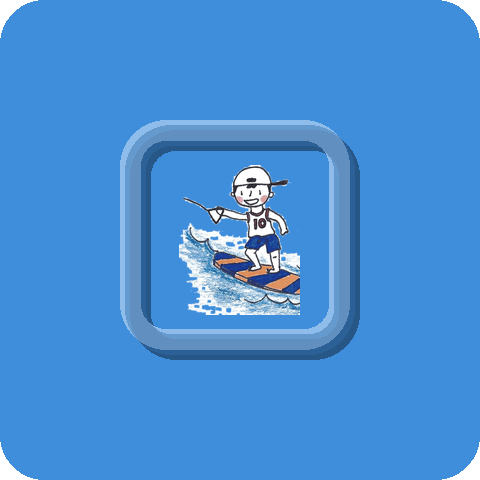
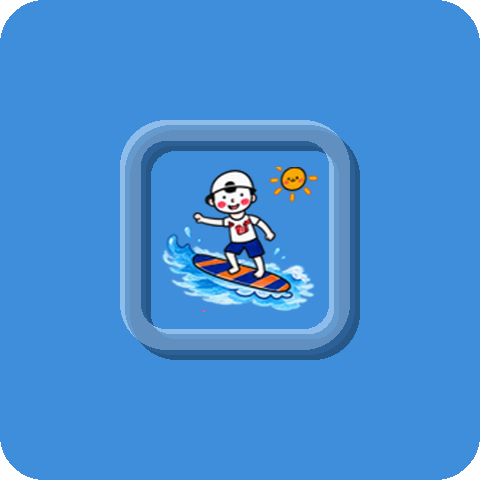
사계절 카드에 새로 받은 벡터풍 그림 적용 (여름·가을·봄)
전달받은 세 장(여름·가을·봄)을 assets/img/art-*.png로 넣고 카드에 반영.
받은 파일은 이미 알파 채널이 있어 배경 제거가 필요 없었다.

- 여름·가을: 음각 액자 안에 그림 배치
- 봄: 받은 그림이 곧 로고의 왼쪽 아래 칸('봄' 글자)이라 네모 액자를
  씌우지 않고 그대로 놓음
- 겨울: 새 그림이 없어 기존 포토북 크레용 삽화의 흰 배경을 지워서 사용

봄 카드 배경만 #17b39a → #0f8a76으로 바꿨다. 글자색이 (1,192,140)이라
봄 브랜드색 (23,179,154)과 거의 같아 그대로 두면 글자가 배경에 묻혔다.
디자인 시스템에 이미 있는 진한 청록(--color-primary-dark)을 썼다.

검증: 375px·1280px 모두 4장 로드, 이름/문구가 액자 구간(26~74%)을
침범하지 않음, 가로 스크롤·콘솔 에러 없음.

남은 차이: 겨울만 크레용 화풍이라 나머지 셋(벡터풍)과 톤이 다르다.

Changed region(s): [[0.3438, 0.3438, 0.6562, 0.6562]]

diff --git a/letter-2026-summer.html b/letter-2026-summer.html
@@ -7,7 +7,7 @@
   <meta name="description" content="여름은 다들 떠나는 계절입니다. 그 여름에 병실에 있는 사람에게 보내는 편지. 페루 마추픽추, 산정특례 30일 규칙과 연말정산 장애인 공제, 그리고 2025년에 한 일." />
   <link rel="alternate" hreflang="ko" href="https://nrhoon777.github.io/ddobom-website/letter-2026-summer.html" />
   <link rel="icon" type="image/png" href="assets/img/logo-square.png" />
-  <link rel="stylesheet" href="assets/css/style.css?v=20260811e" />
+  <link rel="stylesheet" href="assets/css/style.css?v=20260811f" />
 </head>
 <body>
   <a href="#main" class="skip-link">본문 바로가기</a>
@@ -339,6 +339,6 @@
     </div>
   </footer>
 
-  <script src="assets/js/main.js?v=20260811e"></script>
+  <script src="assets/js/main.js?v=20260811f"></script>
 </body>
 </html>

diff --git a/letters.html b/letters.html
@@ -7,7 +7,7 @@
   <meta name="description" content="계절마다 한 번, 네 번에 걸쳐 한 해를 도는 또봄의 편지. 여름·가을·겨울·봄, 또봄 로고의 네 네모와 같은 순서입니다." />
   <link rel="alternate" hreflang="ko" href="https://nrhoon777.github.io/ddobom-website/letters.html" />
   <link rel="icon" type="image/png" href="assets/img/logo-square.png" />
-  <link rel="stylesheet" href="assets/css/style.css?v=20260811e" />
+  <link rel="stylesheet" href="assets/css/style.css?v=20260811f" />
 </head>
 <body>
   <a href="#main" class="skip-link">본문 바로가기</a>
@@ -164,6 +164,6 @@
     </div>
   </footer>
 
-  <script src="assets/js/main.js?v=20260811e"></script>
+  <script src="assets/js/main.js?v=20260811f"></script>
 </body>
 </html>

diff --git a/travel-peru.html b/travel-peru.html
@@ -7,7 +7,7 @@
   <meta name="description" content="이카, 나스카, 마추픽추, 쿠스코, 우유니, 69호수. 회복기의 몸을 기준으로 고도순으로 정리한 페루 여행 안내입니다." />
   <link rel="alternate" hreflang="ko" href="https://nrhoon777.github.io/ddobom-website/travel-peru.html" />
   <link rel="icon" type="image/png" href="assets/img/logo-square.png" />
-  <link rel="stylesheet" href="assets/css/style.css?v=20260811e" />
+  <link rel="stylesheet" href="assets/css/style.css?v=20260811f" />
 </head>
 <body>
   <a href="#main" class="skip-link">본문 바로가기</a>
@@ -216,6 +216,6 @@
     </div>
   </footer>
 
-  <script src="assets/js/main.js?v=20260811e"></script>
+  <script src="assets/js/main.js?v=20260811f"></script>
 </body>
 </html>

diff --git a/story-bucketbook.html b/story-bucketbook.html
@@ -7,7 +7,7 @@
   <meta name="description" content="말기암을 이겨낸 뒤 떠난 80일간의 여행. 그 사진으로 만든 포토북을 병원에 전한 2018년 프로젝트 기록입니다." />
   <link rel="alternate" hreflang="ko" href="https://nrhoon777.github.io/ddobom-website/story-bucketbook.html" />
   <link rel="icon" type="image/png" href="assets/img/logo-square.png" />
-  <link rel="stylesheet" href="assets/css/style.css?v=20260811e" />
+  <link rel="stylesheet" href="assets/css/style.css?v=20260811f" />
 </head>
 <body>
   <a href="#main" class="skip-link">본문 바로가기</a>
@@ -238,6 +238,6 @@
     </div>
   </footer>
 
-  <script src="assets/js/main.js?v=20260811e"></script>
+  <script src="assets/js/main.js?v=20260811f"></script>
 </body>
 </html>

diff --git a/index.html b/index.html
@@ -12,7 +12,7 @@
   <link rel="alternate" hreflang="en" href="https://nrhoon777.github.io/ddobom-website/en/index.html" />
   <link rel="alternate" hreflang="x-default" href="https://nrhoon777.github.io/ddobom-website/index.html" />
   <link rel="icon" type="image/png" href="assets/img/logo-square.png" />
-  <link rel="stylesheet" href="assets/css/style.css?v=20260811e" />
+  <link rel="stylesheet" href="assets/css/style.css?v=20260811f" />
 </head>
 <body>
   <a href="#main" class="skip-link">본문 바로가기</a>
@@ -448,7 +448,7 @@
     </div>
   </footer>
 
-  <script src="assets/js/main.js?v=20260811e"></script>
+  <script src="assets/js/main.js?v=20260811f"></script>
   <script type="module" src="assets/js/news-loader.js?v=20260807f"></script>
 </body>
 </html>

diff --git a/story-cheerup.html b/story-cheerup.html
@@ -7,7 +7,7 @@
   <meta name="description" content="암 경험자와 시민이 한자리에서 이야기하고 노래하는 토크·싱 콘서트. 2023년부터 네 번 열린 기록입니다." />
   <link rel="alternate" hreflang="ko" href="https://nrhoon777.github.io/ddobom-website/story-cheerup.html" />
   <link rel="icon" type="image/png" href="assets/img/logo-square.png" />
-  <link rel="stylesheet" href="assets/css/style.css?v=20260811e" />
+  <link rel="stylesheet" href="assets/css/style.css?v=20260811f" />
 </head>
 <body>
   <a href="#main" class="skip-link">본문 바로가기</a>
@@ -167,6 +167,6 @@
     </div>
   </footer>
 
-  <script src="assets/js/main.js?v=20260811e"></script>
+  <script src="assets/js/main.js?v=20260811f"></script>
 </body>
 </html>

diff --git a/story-gift-2020.html b/story-gift-2020.html
@@ -7,7 +7,7 @@
   <meta name="description" content="코로나로 만남이 어려웠던 2020년 겨울, 투병 중인 청년에게 여행 포토북을 보낸 캠페인 기록입니다." />
   <link rel="alternate" hreflang="ko" href="https://nrhoon777.github.io/ddobom-website/story-gift-2020.html" />
   <link rel="icon" type="image/png" href="assets/img/logo-square.png" />
-  <link rel="stylesheet" href="assets/css/style.css?v=20260811e" />
+  <link rel="stylesheet" href="assets/css/style.css?v=20260811f" />
 </head>
 <body>
   <a href="#main" class="skip-link">본문 바로가기</a>
@@ -133,6 +133,6 @@
     </div>
   </footer>
 
-  <script src="assets/js/main.js?v=20260811e"></script>
+  <script src="assets/js/main.js?v=20260811f"></script>
 </body>
 </html>

diff --git a/en/story-bucketbook.html b/en/story-bucketbook.html
@@ -8,7 +8,7 @@
   <link rel="alternate" hreflang="ko" href="https://nrhoon777.github.io/ddobom-website/story-bucketbook.html" />
   <link rel="alternate" hreflang="en" href="https://nrhoon777.github.io/ddobom-website/en/story-bucketbook.html" />
   <link rel="icon" type="image/png" href="../assets/img/logo-square.png" />
-  <link rel="stylesheet" href="../assets/css/style.css?v=20260811e" />
+  <link rel="stylesheet" href="../assets/css/style.css?v=20260811f" />
 </head>
 <body>
   <a href="#main" class="skip-link">Skip to content</a>
@@ -273,6 +273,6 @@
     </div>
   </footer>
 
-  <script src="../assets/js/main.js?v=20260811e"></script>
+  <script src="../assets/js/main.js?v=20260811f"></script>
 </body>
 </html>

diff --git a/en/story-gift-2020.html b/en/story-gift-2020.html
@@ -8,7 +8,7 @@
   <link rel="alternate" hreflang="ko" href="https://nrhoon777.github.io/ddobom-website/story-gift-2020.html" />
   <link rel="alternate" hreflang="en" href="https://nrhoon777.github.io/ddobom-website/en/story-gift-2020.html" />
   <link rel="icon" type="image/png" href="../assets/img/logo-square.png" />
-  <link rel="stylesheet" href="../assets/css/style.css?v=20260811e" />
+  <link rel="stylesheet" href="../assets/css/style.css?v=20260811f" />
 </head>
 <body>
   <a href="#main" class="skip-link">Skip to content</a>
@@ -174,6 +174,6 @@
     </div>
   </footer>
 
-  <script src="../assets/js/main.js?v=20260811e"></script>
+  <script src="../assets/js/main.js?v=20260811f"></script>
 </body>
 </html>

diff --git a/en/story-cheerup.html b/en/story-cheerup.html
@@ -8,7 +8,7 @@
   <link rel="alternate" hreflang="ko" href="https://nrhoon777.github.io/ddobom-website/story-cheerup.html" />
   <link rel="alternate" hreflang="en" href="https://nrhoon777.github.io/ddobom-website/en/story-cheerup.html" />
   <link rel="icon" type="image/png" href="../assets/img/logo-square.png" />
-  <link rel="stylesheet" href="../assets/css/style.css?v=20260811e" />
+  <link rel="stylesheet" href="../assets/css/style.css?v=20260811f" />
 </head>
 <body>
   <a href="#main" class="skip-link">Skip to content</a>
@@ -205,6 +205,6 @@
     </div>
   </footer>
 
-  <script src="../assets/js/main.js?v=20260811e"></script>
+  <script src="../assets/js/main.js?v=20260811f"></script>
 </body>
 </html>

diff --git a/en/programs.html b/en/programs.html
@@ -9,7 +9,7 @@
   <link rel="alternate" hreflang="en" href="https://nrhoon777.github.io/ddobom-website/en/programs.html" />
   <link rel="alternate" hreflang="x-default" href="https://nrhoon777.github.io/ddobom-website/programs.html" />
   <link rel="icon" type="image/png" href="../assets/img/logo-square.png" />
-  <link rel="stylesheet" href="../assets/css/style.css?v=20260811e" />
+  <link rel="stylesheet" href="../assets/css/style.css?v=20260811f" />
 </head>
 <body>
   <a href="#main" class="skip-link">Skip to content</a>
@@ -309,6 +309,6 @@
     </div>
   </footer>
 
-  <script src="../assets/js/main.js?v=20260811e"></script>
+  <script src="../assets/js/main.js?v=20260811f"></script>
 </body>
 </html>

diff --git a/en/donate.html b/en/donate.html
@@ -9,7 +9,7 @@
   <link rel="alternate" hreflang="en" href="https://nrhoon777.github.io/ddobom-website/en/donate.html" />
   <link rel="alternate" hreflang="x-default" href="https://nrhoon777.github.io/ddobom-website/donate.html" />
   <link rel="icon" type="image/png" href="../assets/img/logo-square.png" />
-  <link rel="stylesheet" href="../assets/css/style.css?v=20260811e" />
+  <link rel="stylesheet" href="../assets/css/style.css?v=20260811f" />
 </head>
 <body>
   <a href="#main" class="skip-link">Skip to content</a>
@@ -213,6 +213,6 @@
     </div>
   </footer>
 
-  <script src="../assets/js/main.js?v=20260811e"></script>
+  <script src="../assets/js/main.js?v=20260811f"></script>
 </body>
 </html>
